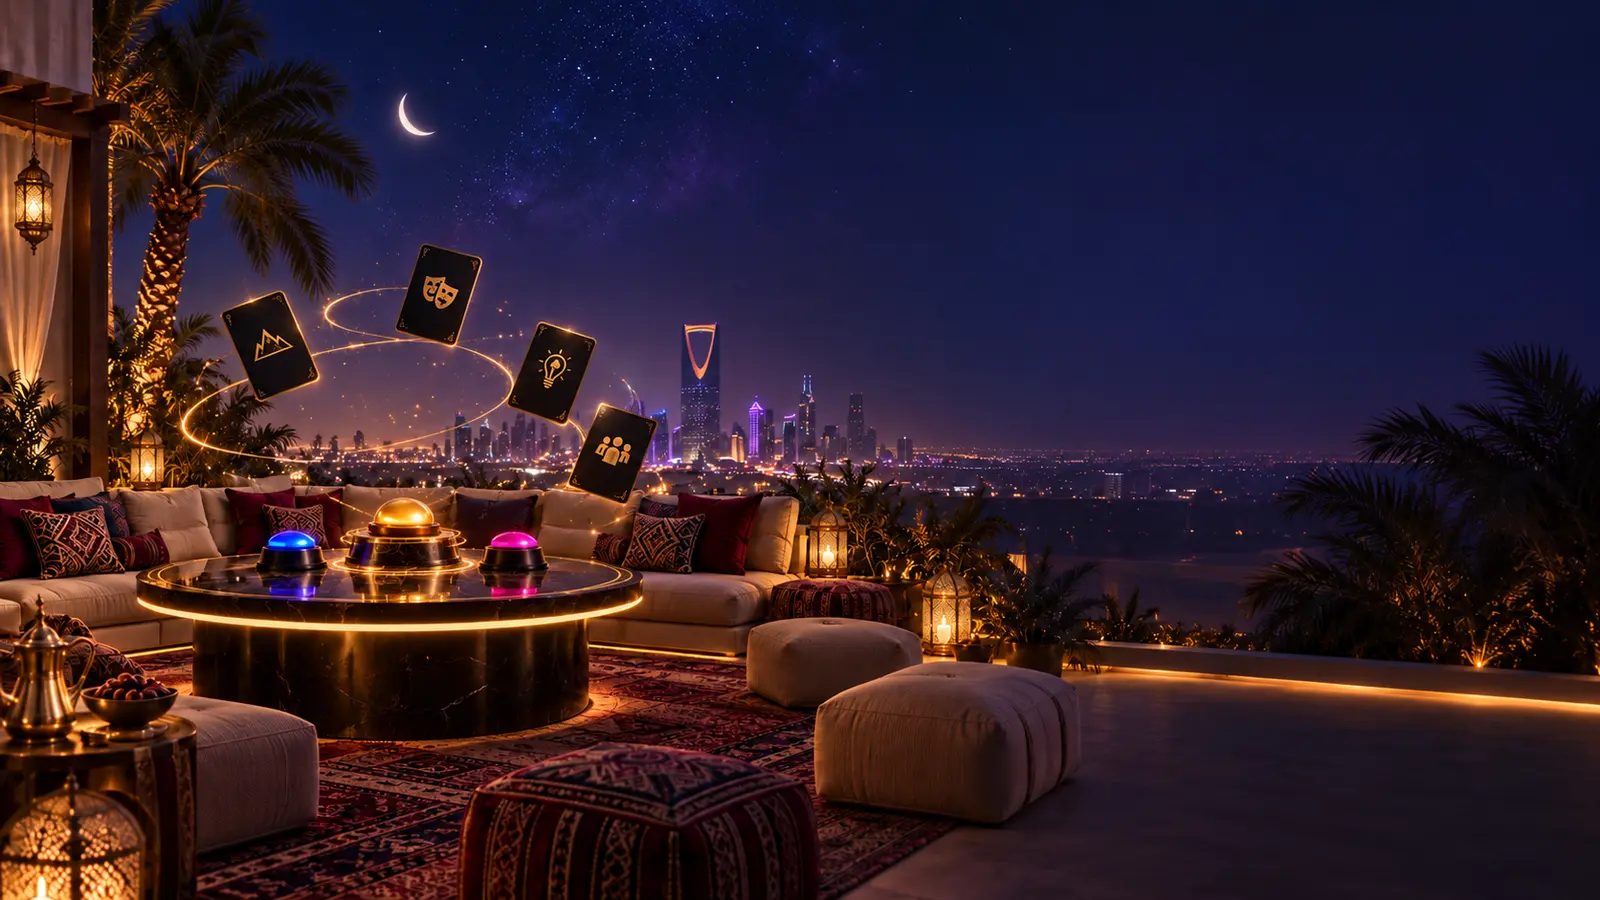
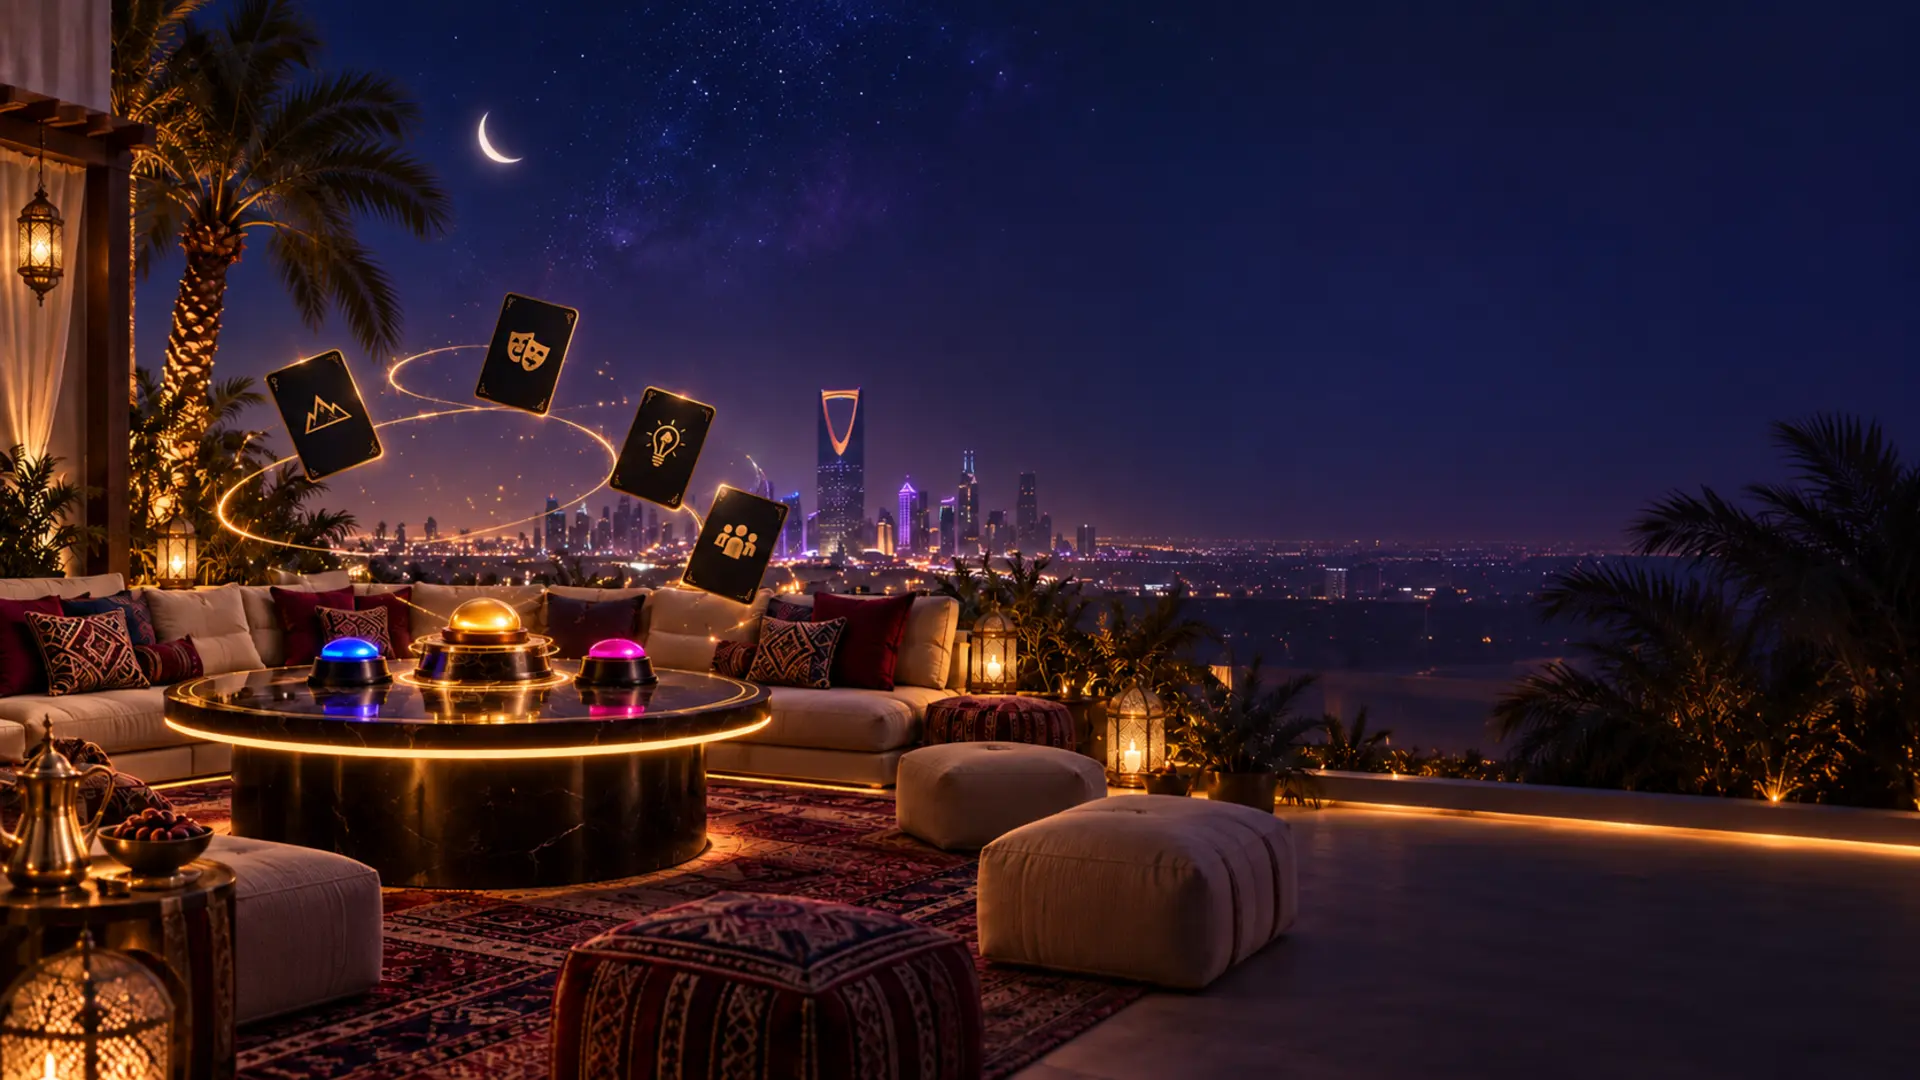
Expand cinematic hero behind header at full viewport

diff --git a/src/arena.css b/src/arena.css
@@ -32,3 +32,15 @@
 @media(max-width:1050px){.arena-illustration.cinematic-arena{transform:none;margin:0;height:370px}}
 @media(max-width:760px){.arena-illustration.cinematic-arena{width:100%;height:300px;margin:10px auto 0;border-radius:24px}.cinematic-arena img{object-position:30% center}}
 @media(max-width:450px){.arena-illustration.cinematic-arena{height:230px;border-radius:19px}.cinematic-arena img{object-position:27% center}}
+
+/* Full-viewport cinematic home hero */
+.party-app:has(.lobby-hero) .topbar{z-index:10;background:linear-gradient(180deg,#080b18e8,#080b1899);backdrop-filter:blur(14px);border-bottom-color:#ffd45a24}
+.party-app:has(.lobby-hero) main{overflow:visible}
+.party-app:has(.lobby-hero) .lobby-hero{position:relative;isolation:isolate;display:grid;grid-template-columns:1fr;min-height:calc(100svh - 90px);align-items:center;padding-block:55px 75px}
+.party-app:has(.lobby-hero) .lobby-copy{position:relative;z-index:3;max-width:610px;padding:32px;border-radius:28px;background:linear-gradient(135deg,#080b18e3,#080b188f 72%,transparent);box-shadow:0 24px 80px #0008;backdrop-filter:blur(4px)}
+.party-app:has(.lobby-hero) .arena-illustration.cinematic-arena{position:absolute;z-index:-1;top:-90px;right:calc(50% - 50vw);bottom:0;left:calc(50% - 50vw);width:auto;height:auto;margin:0;border:0;border-radius:0;box-shadow:none;background:#070b18}
+.party-app:has(.lobby-hero) .cinematic-arena img{width:100%;height:100%;object-fit:cover;object-position:center center;transform:none;filter:saturate(1.04) contrast(1.04)}
+.party-app:has(.lobby-hero) .cinematic-arena::before{content:"";position:absolute;z-index:1;inset:0;background:linear-gradient(90deg,#0609160d 0%,#070a1740 40%,#070a17e8 82%,#070a17fa 100%),linear-gradient(180deg,#070a1738 55%,#070a17d6 100%);pointer-events:none}
+.party-app:has(.lobby-hero) .cinematic-arena::after{background:linear-gradient(180deg,#05071428 55%,#050714e0 100%)}
+@media(max-width:760px){.party-app:has(.lobby-hero) .lobby-hero{min-height:calc(100svh - 75px);padding-block:40px 55px}.party-app:has(.lobby-hero) .lobby-copy{max-width:100%;padding:24px 20px;background:linear-gradient(135deg,#080b18eb,#080b18aa)}.party-app:has(.lobby-hero) .arena-illustration.cinematic-arena{top:-75px;height:auto;width:auto;border-radius:0}.party-app:has(.lobby-hero) .cinematic-arena img{object-position:35% center}.party-app:has(.lobby-hero) .cinematic-arena::before{background:linear-gradient(180deg,#0609164d 0%,#070a1790 48%,#070a17f5 100%)}}
+@media(max-width:450px){.party-app:has(.lobby-hero) .lobby-copy{padding:22px 16px}.party-app:has(.lobby-hero) .cinematic-arena img{object-position:31% center}}
